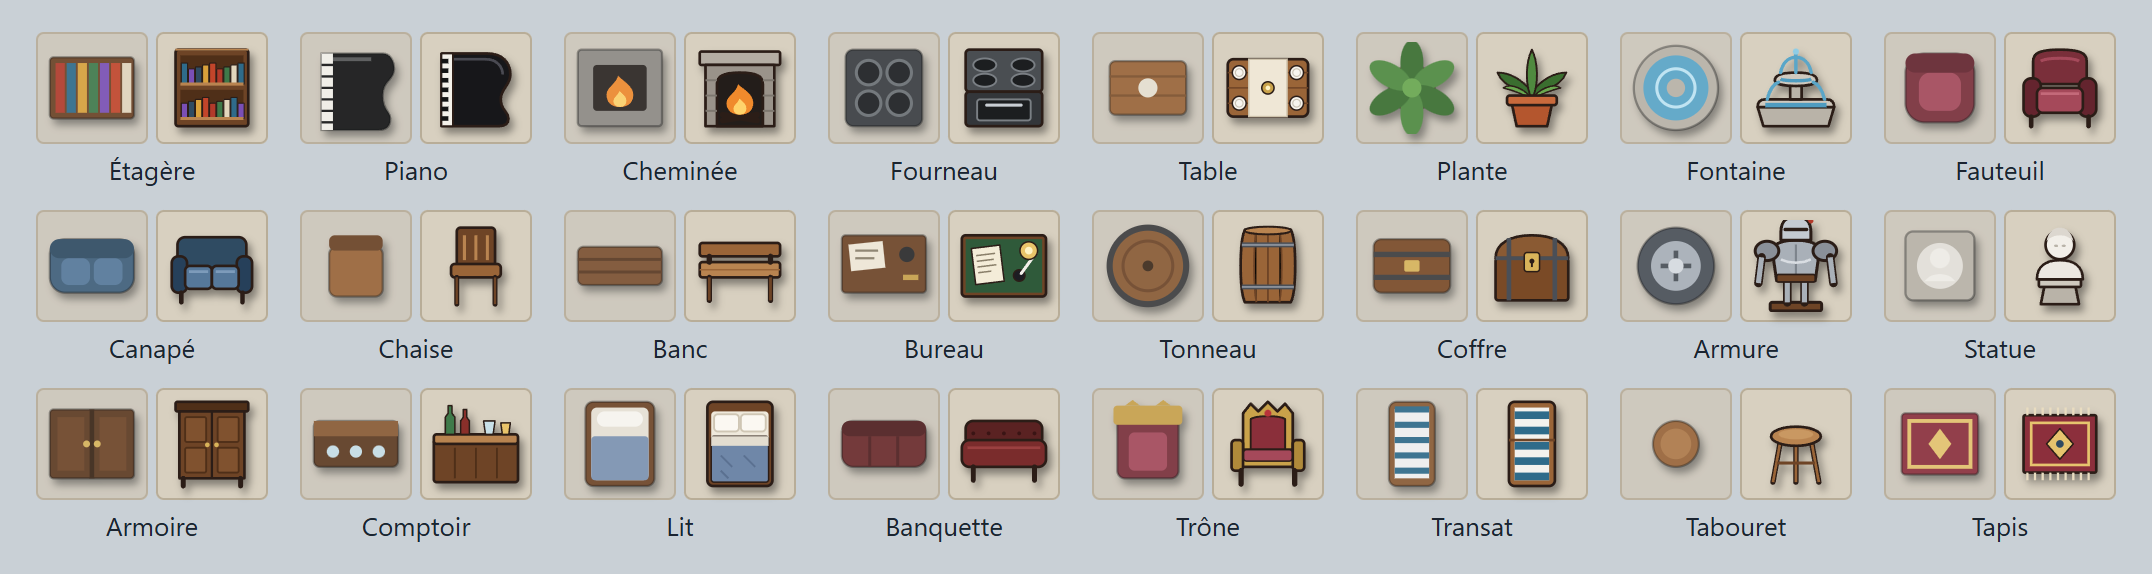
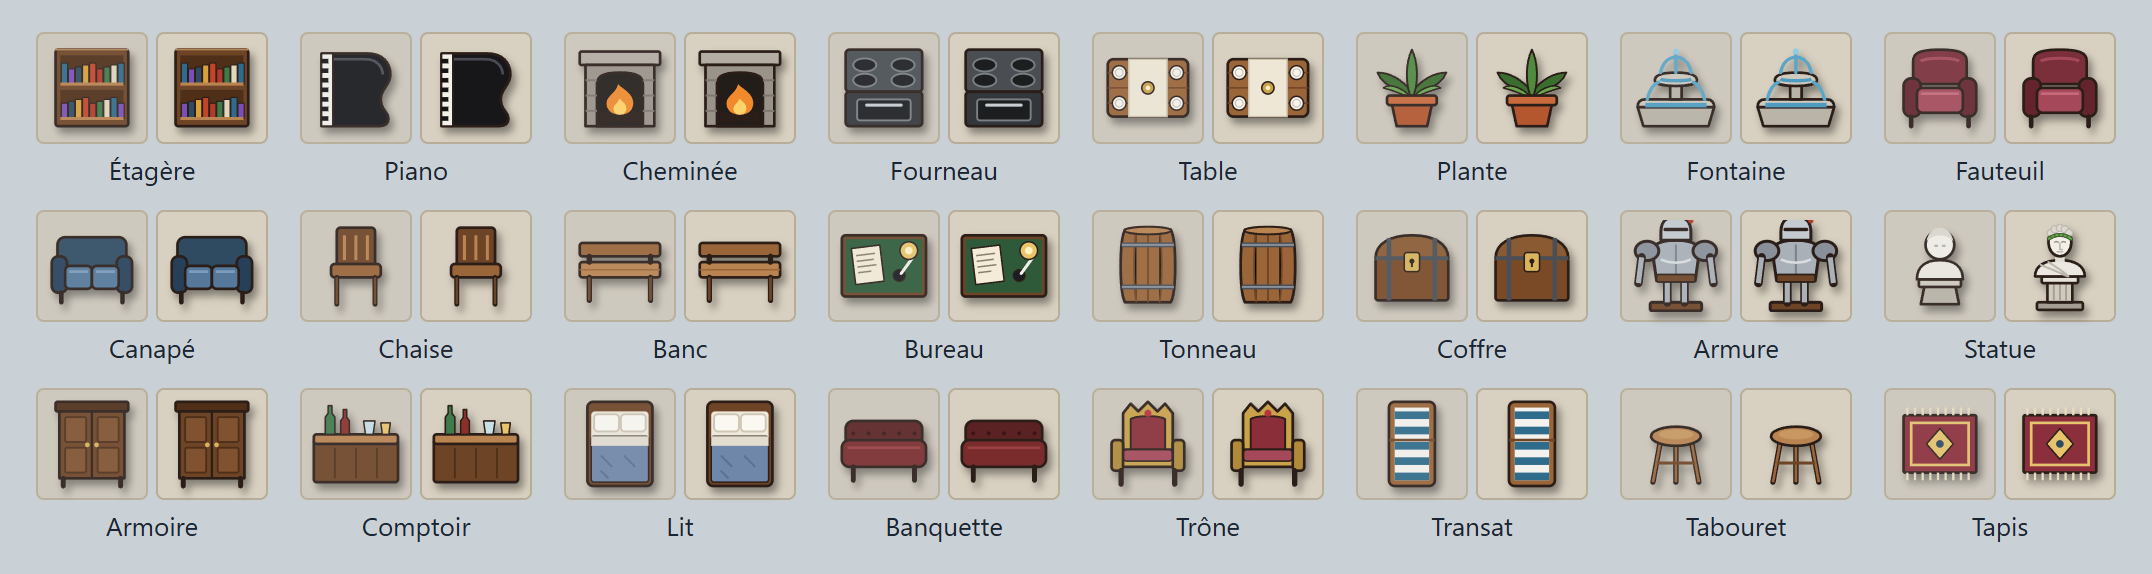
Pièce à conviction : boussole N E S O, lettres du plan descendues, statue redessinée
- Boussole à quatre branches qui chevauche le coin du plan
- Les lettres A, B, C… posées en bas de leur rangée, les chiffres décollés du cadre
- La statue devient un buste romain couronné de laurier sur une colonne
  (l'ancienne évoquait des toilettes)
- conviction-11

diff --git a/conviction/ui/icons.js b/conviction/ui/icons.js
@@ -80,9 +80,17 @@ const PATHS = {
     + `<path d="M13 18c0-3 4-5 11-5s11 2 11 5l-2 14H15z" fill="#a9b0b8"${L}/><path d="M24 15v16" stroke="#7d848c" stroke-width="1"/><path d="M17 22c4 2 10 2 14 0" stroke="#d9dde2" stroke-width="1.2" fill="none"/><rect x="15" y="29" width="18" height="3.5" rx="1" fill="#6e4426"${l(0.8)}/>`
     + `<ellipse cx="10.5" cy="18" rx="5.5" ry="4.5" fill="#8a9099"${L}/><ellipse cx="37.5" cy="18" rx="5.5" ry="4.5" fill="#8a9099"${L}/><path d="M8 21l-1.5 12M40 21l1.5 12" ${l(4)}/><path d="M8 21l-1.5 12M40 21l1.5 12" stroke="#a9b0b8" stroke-width="2.4"/>`
     + `<path d="M17 9c0-5 3-7 7-7s7 2 7 7v4H17z" fill="#c4cad1"${L}/><path d="M19 8h10" stroke="${T}" stroke-width="1.6" stroke-linecap="round"/><path d="M24 2c2-2 6-1 7 2" stroke="#b23a2a" stroke-width="2.4" fill="none" stroke-linecap="round"/></g>`,
-  // Buste de marbre sur un piédestal.
-  statue: `<path d="M16 34h16l2 10H14z" fill="#b9b3a8"${L}/><rect x="13" y="31" width="22" height="4" rx="1" fill="#cfc9be"${L}/>`
-    + `<path d="M12 31c0-7 5-10 12-10s12 3 12 10z" fill="#ece8e1"${L}/><circle cx="24" cy="13" r="7.5" fill="#f2efe9"${L}/><path d="M17 11c1-5 4-7 7-7s6 2 7 7c-2-2-4-3-7-3s-5 1-7 3z" fill="#dcd7cf"/><path d="M21.5 13.5h1M25.5 13.5h1" stroke="#b9b3a8" stroke-width="1.2" stroke-linecap="round"/>`,
+  // Buste romain couronné de laurier sur une colonne cannelée : le buste
+  // blanc sur un socle rond évoquait des toilettes (vu par Julie).
+  statue: `<rect x="12" y="43" width="24" height="4" rx="1" fill="#a39d93"${L}/><path d="M17.5 32h13v11h-13z" fill="#cfc9be"${L}/><path d="M20.8 33v9M24 33v9M27.2 33v9" stroke="#a39d93" stroke-width="1"/><rect x="14.5" y="29.5" width="19" height="3.5" rx="1" fill="#e6e2da"${L}/>`
+    // La toge drapée sur l'épaule.
+    + `<path d="M11 29.5c0-5.5 5-8.5 13-8.5s13 3 13 8.5z" fill="#ece8e1"${L}/><path d="M14 23.5c5 2 10 4 14 6M18 22c4 2.5 8 5 10.5 7.5" stroke="#bdb7ad" stroke-width="1.1" fill="none" stroke-linecap="round"/><path d="M21.5 18.5h5v3.5h-5z" fill="#e2ded6"/>`
+    // La tête : visage, boucles, couronne de laurier qui fait le tour du front.
+    + `<path d="M18 11.5c0-4.6 2.7-7.5 6-7.5s6 2.9 6 7.5c0 4.2-2.6 7.5-6 7.5s-6-3.3-6-7.5z" fill="#f2efe9"${L}/>`
+    + [[19.3, 6.8], [21.4, 4.9], [24, 4.2], [26.6, 4.9], [28.7, 6.8]].map(([x, y]) => `<circle cx="${x}" cy="${y}" r="1.9" fill="#dcd7cf" stroke="#bdb7ad" stroke-width=".6"/>`).join('')
+    + `<path d="M18.4 9.6c3.6-1.8 7.6-1.8 11.2 0" stroke="#4f7d3a" stroke-width="1.1" fill="none"/>`
+    + [[18.9, 9.3, -35], [20.8, 8.4, -20], [22.8, 7.9, -8], [25.2, 7.9, 8], [27.2, 8.4, 20], [29.1, 9.3, 35]].map(([x, y, a]) => `<ellipse cx="${x}" cy="${y}" rx="1.7" ry=".85" fill="#6aa04e" stroke="#2f4f22" stroke-width=".4" transform="rotate(${a} ${x} ${y})"/>`).join('')
+    + `<path d="M21.2 11.6c.6-.4 1.4-.4 2 0M24.8 11.6c.6-.4 1.4-.4 2 0" stroke="#9a948a" stroke-width=".8" fill="none" stroke-linecap="round"/><path d="M24 12.2v3.2h1.1" stroke="#b9b3a8" stroke-width=".8" fill="none" stroke-linecap="round" stroke-linejoin="round"/><path d="M22.6 16.6h2.8" stroke="#b9b3a8" stroke-width=".8" stroke-linecap="round"/>`,
   // Armoire de face : deux portes à panneaux, corniche, pieds.
   armoire: `<rect x="5" y="2" width="38" height="5" rx="1" fill="${BOIS_FF}"${L}/><rect x="7" y="7" width="34" height="35" fill="${BOIS_F}"${L}/><path d="M24 7v35" stroke="${T}" stroke-width="1.2"/>`
     + `<rect x="10" y="10" width="11" height="13" rx="1" fill="#80522f" stroke="${BOIS_FF}" stroke-width="1"/><rect x="27" y="10" width="11" height="13" rx="1" fill="#80522f" stroke="${BOIS_FF}" stroke-width="1"/><rect x="10" y="26" width="11" height="13" rx="1" fill="#80522f" stroke="${BOIS_FF}" stroke-width="1"/><rect x="27" y="26" width="11" height="13" rx="1" fill="#80522f" stroke="${BOIS_FF}" stroke-width="1"/>`

diff --git a/conviction/style.css b/conviction/style.css
@@ -162,8 +162,13 @@ body:has(#accueil:not([hidden])) { background: radial-gradient(120% 50% at 50% 0
 .gridwrap { display: grid; grid-template-columns: 22px repeat(var(--n), minmax(0, 1fr)); touch-action: manipulation; }
 .gridwrap [role="row"] { display: contents; }
 .lab { font: 700 14px var(--body); color: var(--socle-ink); display: flex; align-items: center; justify-content: center; min-height: 24px; }
-.lab.boussole { position: relative; overflow: visible; }
-.lab.boussole svg { position: absolute; left: 50%; top: 50%; width: 30px; height: 30px; transform: translate(-42%, -46%); }
+.plan { position: relative; }
+.boussole { position: absolute; z-index: 5; left: -15px; top: -12px; width: 41px; height: 41px; pointer-events: none; filter: drop-shadow(0 2px 3px rgb(0 0 0 / .45)); }
+.boussole svg { width: 100%; height: 100%; display: block; }
+/* La rangée des lettres A, B, C… est plus haute : la boussole y a son coin. */
+.gridwrap > [role="row"]:first-child .lab { min-height: 32px; align-items: flex-end; padding-bottom: 3px; }
+/* Les chiffres des lignes ne collent plus au cadre. */
+.gridwrap > [role="row"] > .lab:first-child { padding-left: 4px; }
 .cell {
   position: relative; aspect-ratio: 1; min-width: 0; padding: 0; margin: 0; border: 0; cursor: pointer;
   display: flex; align-items: center; justify-content: center;

diff --git a/conviction/index.html b/conviction/index.html
@@ -55,6 +55,8 @@
   <div class="board">
     <section class="plan" aria-labelledby="etage">
       <h2 class="sr" id="etage"></h2>
+      <!-- La boussole chevauche le coin du plan : N, E, S, O, comme dans les témoignages. -->
+      <span class="boussole" aria-hidden="true"><svg viewBox="0 0 56 56"><circle cx="28" cy="28" r="27" fill="#2e2522" stroke="#ddd5ca" stroke-width="1.4"/><path d="M28 14l3.6 14h-7.2z" fill="#e5484d"/><path d="M28 42l-3.6-14h7.2z" fill="#ddd5ca"/><path d="M42 28l-14 3.6v-7.2z" fill="#ddd5ca"/><path d="M14 28l14-3.6v7.2z" fill="#ddd5ca"/><circle cx="28" cy="28" r="2" fill="#2e2522"/><g fill="none" stroke="#fff" stroke-width="2.2" stroke-linecap="round" stroke-linejoin="round"><path d="M24.6 11V3l6.8 8V3"/><path d="M31.4 46c-.6-1-1.8-1.5-3.3-1.5-1.8 0-3.3.9-3.3 2.1 0 2.8 6.6 1.5 6.6 4.4 0 1.2-1.5 2.1-3.3 2.1-1.5 0-2.8-.6-3.4-1.6"/><path d="M53 24.2h-5.8v7.6H53M47.2 28h4.6"/><ellipse cx="6.2" cy="28" rx="3.3" ry="4"/></g></svg></span>
       <div class="maquette"><div class="gridwrap" id="grille" role="grid"></div></div>
 
       <div class="choix" id="choix" role="group" data-t-label="personneAPlacer"></div>

diff --git a/conviction/ui/game.js b/conviction/ui/game.js
@@ -92,8 +92,7 @@ export function mountGame(puzzle, number, settings, nav) {
   /** @type {HTMLElement} */ (grid.parentElement).dataset.ambiance = puzzle.ambiance ?? 'jour';
   /** @type {HTMLElement} */ (grid.parentElement).dataset.n = String(n);
   grid.setAttribute('aria-label', `${puzzle.floor}, ${UI.taille(n)}`);
-  // Dans le coin du plan, une petite boussole : le nord est en haut.
-  let html = '<div role="row"><span class="lab boussole" aria-hidden="true"><svg viewBox="0 0 24 24"><path d="M12 2l4 10h-8z" fill="#e5484d"/><path d="M12 22l-4-10h8z" fill="currentColor" opacity=".55"/><path d="M10.5 10.6V6.6l3 4V6.6" fill="none" stroke="#fff" stroke-width="1.1" stroke-linejoin="round" stroke-linecap="round"/></svg></span>';
+  let html = '<div role="row"><span class="lab"></span>';
   for (let c = 0; c < n; c++) html += `<span class="lab" role="columnheader">${String.fromCharCode(65 + c)}</span>`;
   html += '</div>';
   const labeled = new Set();

diff --git a/conviction/sw.js b/conviction/sw.js
@@ -2,7 +2,7 @@
    ⚠ VERSION n'existe QU'ICI. La changer à chaque modification d'un fichier de
    SHELL (code, style, enquête), sinon le téléphone garde l'ancienne version.
    tools/conviction-pwa.mjs vérifie que SHELL contient tout ce que le jeu charge. */
-var VERSION = "conviction-10";
+var VERSION = "conviction-11";
 /* Tous nos jeux et apps partagent l'origine replica-n8n.github.io, donc le même
    CacheStorage : le cache porte le nom du jeu et de sa portée, et l'activation ne
    supprime QUE les siens. */

diff --git a/CLAUDE.md b/CLAUDE.md
@@ -235,7 +235,8 @@ répète pas : il donne ce qu'il faut savoir pour y toucher sans rien casser.
   **Textes pour un enfant de 8 ans** (2026-10-16) : les directions se disent
   comme sur le plan, le point cardinal entre parenthèses (« plus à droite
   (à l'est) », « juste au-dessus (au nord) ») ; « Le corps était », jamais
-  « gisait » ; une boussole (N en haut) dans le coin du plan, dessinée en
+  « gisait » ; une boussole N, E, S, O qui chevauche le coin du plan (hors
+  de `.maquette`, qui rogne ; la rangée A, B, C… est rehaussée), dessinée en
   trait (un `<text>` SVG comptait comme texte de 5,6 px pour le banc).
   **Tutoriel joué** (`ui/tuto.js`) : Valcourt, première visite, après le
   dossier : 4 bulles qui ATTENDENT le geste (choisir, placer), « Passer »
